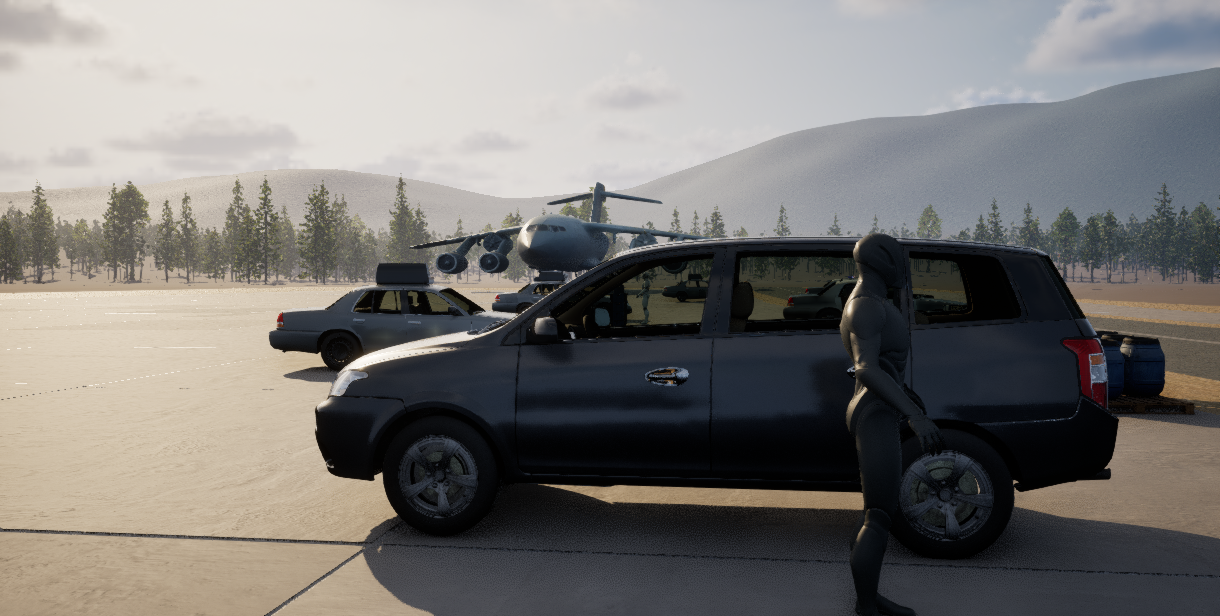
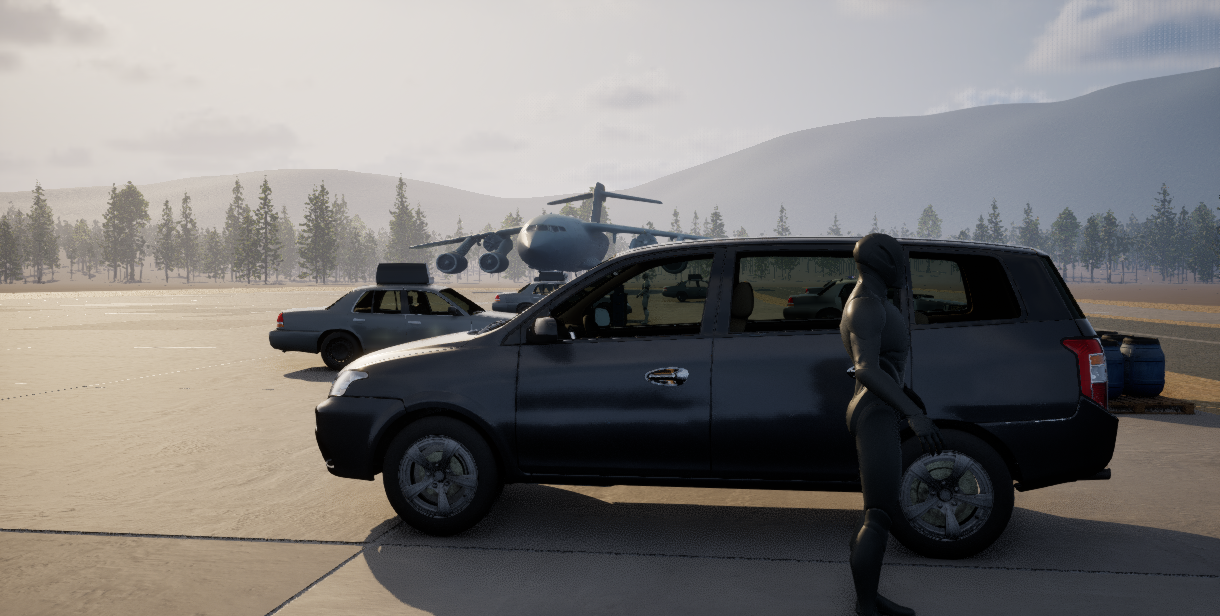
Promote accepted D02 surface and fog state

diff --git a/index.html b/index.html
@@ -27,7 +27,7 @@
     <section>
       <h2>Reload</h2>
       <div class="pair">
-        <figure><img src="images/current-reload.png" alt="Current D02 Reload"><figcaption>当前 D02</figcaption></figure>
+        <figure><img src="images/current-reload.png" alt="Current D02 Reload"><figcaption>当前 D02（Surface + Fog 5.5）</figcaption></figure>
         <figure><img src="images/reference-reload.png" alt="007 reference Reload"><figcaption>007 参考</figcaption></figure>
       </div>
     </section>
@@ -35,7 +35,7 @@
     <section>
       <h2>Vault</h2>
       <div class="pair">
-        <figure><img src="images/current-vault.png" alt="Current D02 Vault"><figcaption>当前 D02</figcaption></figure>
+        <figure><img src="images/current-vault.png" alt="Current D02 Vault"><figcaption>当前 D02（Surface + Fog 5.5）</figcaption></figure>
         <figure><img src="images/reference-vault.png" alt="007 reference Vault"><figcaption>007 参考</figcaption></figure>
       </div>
     </section>
@@ -43,7 +43,7 @@
     <section>
       <h2>Aim</h2>
       <div class="pair">
-        <figure><img src="images/current-aim.png" alt="Current D02 Aim"><figcaption>当前 D02</figcaption></figure>
+        <figure><img src="images/current-aim.png" alt="Current D02 Aim"><figcaption>当前 D02（Surface + Fog 5.5）</figcaption></figure>
         <figure><img src="images/reference-aim.png" alt="007 reference Aim"><figcaption>007 参考</figcaption></figure>
       </div>
     </section>
